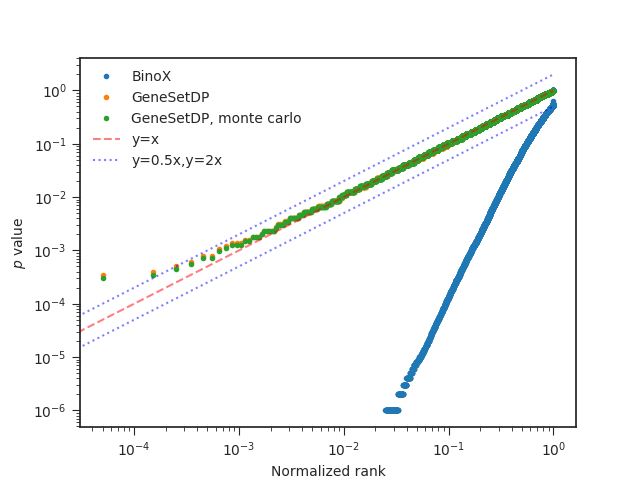
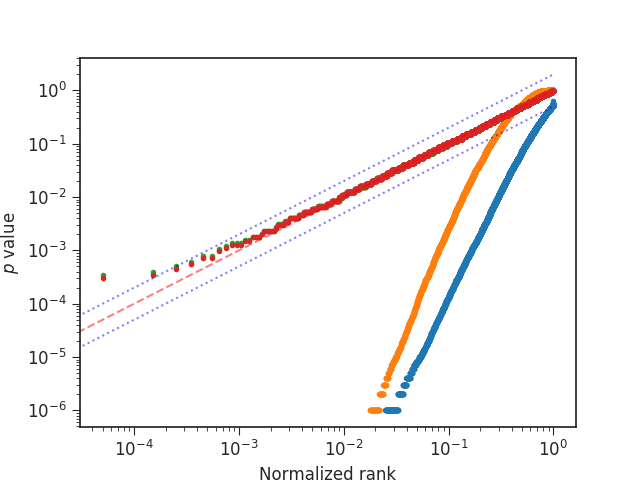
new calibration plots

diff --git a/exp/combine_plot_multiple.py b/exp/combine_plot_multiple.py
@@ -1,0 +1,77 @@
+import pandas as pd
+import numpy as np
+import matplotlib.pyplot as plt
+import seaborn as sns
+
+def one_plot(ax, Q):
+
+    binox = pd.read_csv('example-random/BinoX_results_Q' + str(Q) + '.tsv', sep='\t')
+
+    ###### only enriched
+    binox.loc[:, 'enrichment'] = binox.loc[:, '#4:p.value']
+    binox.loc[binox['#6:relationType'] == '-', 'enrichment'] = 1 - binox.loc[binox['#6:relationType'] == '-', '#4:p.value']
+    ######
+
+    binox = binox.set_index('#3:NameGroupB')
+
+    binox.index = [x.lower() for x in binox.index]
+
+    binox_both = binox['#4:p.value']
+    binox_enrich = binox['enrichment']
+
+    genesetdp = pd.read_csv('example-random/genesetDP_results_Q' + str(Q) + '.tsv', sep='\t', index_col=0)
+    genesetdp_sorted = genesetdp['p'].sort_values()
+    genesetdp_sorted_mc = genesetdp['p_mc'].sort_values()
+    genesetdp_ix = (np.arange(len(genesetdp_sorted.index))+0.5)/float(len(genesetdp_sorted))
+
+    binox_both = binox_both.loc[genesetdp.index]
+    binox_enrich = binox_enrich.loc[genesetdp.index]
+    binox_both.loc[np.isnan(binox_both)] = 1
+    binox_enrich.loc[np.isnan(binox_enrich)] = 1
+
+    binox_both_sorted = binox_both.sort_values()
+    binox_enrich_sorted = binox_enrich.sort_values()
+
+    binox_ix = (np.arange(len(binox_both_sorted.index))+0.5)/float(len(binox_both_sorted.index))
+
+    x_y = pd.DataFrame(np.arange(0,1,0.001), index = np.arange(0,1,0.001))
+    x_2y = pd.DataFrame(np.arange(0,1,0.001)*2, index = np.arange(0,1,0.001))
+    x_halfy = pd.DataFrame(np.arange(0,0.5,0.001), index = np.arange(0,0.5,0.001)*2)
+
+    sns.set_style("ticks")
+    sns.despine()
+
+    ax.loglog(binox_ix, binox_both_sorted, '.')
+    ax.loglog(binox_ix, binox_enrich_sorted, '.')
+    ax.loglog(genesetdp_ix, genesetdp_sorted,'.')
+    ax.loglog(genesetdp_ix, genesetdp_sorted_mc,'.')
+    ax.loglog(x_y, '--', color = 'r', alpha = 0.5)
+    ax.loglog(x_2y, ':',color = 'b', alpha = 0.5)
+    ax.loglog(x_halfy, ':',color = 'b', alpha = 0.5)
+
+
+fig, (ax1, ax2, ax3) = plt.subplots(1, 3, sharey=True)
+
+one_plot(ax1, 10)
+one_plot(ax2, 20)
+one_plot(ax3, 30)
+
+ax1.set_title('Q = 10')
+ax2.set_title('Q = 30')
+ax3.set_title('Q = 30')
+
+ax1.set(ylabel='$p$ value', xlabel = 'Normalized rank')
+ax2.set(xlabel = 'Normalized rank')
+ax3.set(xlabel = 'Normalized rank')
+
+# for ax in [ax1,ax2,ax3]:
+#     ax.set_aspect('equal')
+
+lgd = fig.legend(['BinoX', 'BinoX (enriched)     ', 'GeneSetDP', 'GeneSetMC', 'y=x', 'y=0.5x,y=2x'], loc='center left', bbox_to_anchor=(0.85,0.5))
+
+fig.set_size_inches(10,3)
+fig.savefig('calibration_multiple.png', bbox_extra_artists=(lgd,), bbox_inches='tight')
+
+
+# plt.savefig('calibration_multiple.png')
+# plt.show()

diff --git a/exp/combine_plot.py b/exp/combine_plot.py
@@ -3,30 +3,36 @@ import numpy as np
 import matplotlib.pyplot as plt
 import seaborn as sns
 
+Q = 30
 
-binox = pd.read_csv('example-random/BinoX_results.tsv', sep='\t')
+binox = pd.read_csv('example-random/BinoX_results_Q' + str(Q) + '.tsv', sep='\t')
 
 ###### only enriched
-binox.loc[binox['#6:relationType'] == '-', '#4:p.value'] = 1 - binox.loc[binox['#6:relationType'] == '-', '#4:p.value']
+binox.loc[:, 'enrichment'] = binox.loc[:, '#4:p.value']
+binox.loc[binox['#6:relationType'] == '-', 'enrichment'] = 1 - binox.loc[binox['#6:relationType'] == '-', '#4:p.value']
 ######
-
-
 
 binox = binox.set_index('#3:NameGroupB')
 
 binox.index = [x.lower() for x in binox.index]
 
-binox = binox['#4:p.value']
+binox_both = binox['#4:p.value']
+binox_enrich = binox['enrichment']
 
-genesetdp = pd.read_csv('example-random/genesetDP_results.tsv', sep='\t', index_col=0)
+genesetdp = pd.read_csv('example-random/genesetDP_results_Q' + str(Q) + '.tsv', sep='\t', index_col=0)
 genesetdp_sorted = genesetdp['p'].sort_values()
 genesetdp_sorted_mc = genesetdp['p_mc'].sort_values()
 genesetdp_ix = (np.arange(len(genesetdp_sorted.index))+0.5)/float(len(genesetdp_sorted))
 
-binox = binox.loc[genesetdp.index]
-binox.loc[np.isnan(binox)] = 1
-binox_sorted = binox.sort_values()
-binox_ix = (np.arange(len(binox_sorted.index))+0.5)/float(len(binox_sorted.index))
+binox_both = binox_both.loc[genesetdp.index]
+binox_enrich = binox_enrich.loc[genesetdp.index]
+binox_both.loc[np.isnan(binox_both)] = 1
+binox_enrich.loc[np.isnan(binox_enrich)] = 1
+
+binox_both_sorted = binox_both.sort_values()
+binox_enrich_sorted = binox_enrich.sort_values()
+
+binox_ix = (np.arange(len(binox_both_sorted.index))+0.5)/float(len(binox_both_sorted.index))
 
 x_y = pd.DataFrame(np.arange(0,1,0.001), index = np.arange(0,1,0.001))
 x_2y = pd.DataFrame(np.arange(0,1,0.001)*2, index = np.arange(0,1,0.001))
@@ -35,16 +41,17 @@ x_halfy = pd.DataFrame(np.arange(0,0.5,0.001), index = np.arange(0,0.5,0.001)*2)
 sns.set_style("ticks")
 sns.despine()
 
-
-plt.loglog(binox_ix, binox_sorted, '.')
+plt.rc('font', size=12)
+plt.loglog(binox_ix, binox_both_sorted, '.')
+plt.loglog(binox_ix, binox_enrich_sorted, '.')
 plt.loglog(genesetdp_ix, genesetdp_sorted,'.')
 plt.loglog(genesetdp_ix, genesetdp_sorted_mc,'.')
 plt.loglog(x_y, '--', color = 'r', alpha = 0.5)
 plt.loglog(x_2y, ':',color = 'b', alpha = 0.5)
 plt.loglog(x_halfy, ':',color = 'b', alpha = 0.5)
 
-plt.legend(['BinoX', 'GeneSetDP', 'GeneSetDP, monte carlo', 'y=x', 'y=0.5x,y=2x'])
 plt.ylabel('$p$ value')
 plt.xlabel('Normalized rank')
 
-plt.savefig('calibration.png')
+plt.savefig('calibration_Q' + str(Q) + '.png')
+plt.show()

diff --git a/doc/genesetdp.tex b/doc/genesetdp.tex
@@ -173,12 +173,7 @@ We note that the calibration of GeneSetDP is slightly conservative, i.e. the cal
 
 \begin{figure}[htb]
   \begin{center}
-    \begin{tabular}{c@{}c@{}c}
-      \includegraphics[width=5cm]{figures/calibration_Q10.png} &
-      \includegraphics[width=5cm]{figures/calibration_Q20.png} &
-      \includegraphics[width=5cm]{figures/calibration_Q30.png} \\
-      $Q=10$ & $Q=20$ & $Q=30$
-    \end{tabular}
+      \includegraphics[width=1.0\textwidth]{figures/calibration_multiple.png}
   \end{center}
   \caption{{\bf Calibration of GeneSetDP and GeneSetMC.} We selected 10000 random sets of 10, 20 and 30 genes from the investigated genome definition and calculated their $p$ values with GeneSetMC and GeneSetDP against the ``Glycolysis/Gluconeogenesis'' pathway. To test the $p$~values uniformity we plotted them against their normalized rank. We also added the calibration curve of BinoX, evaluated on the same random sets.}
   \label{fig:calibration}
